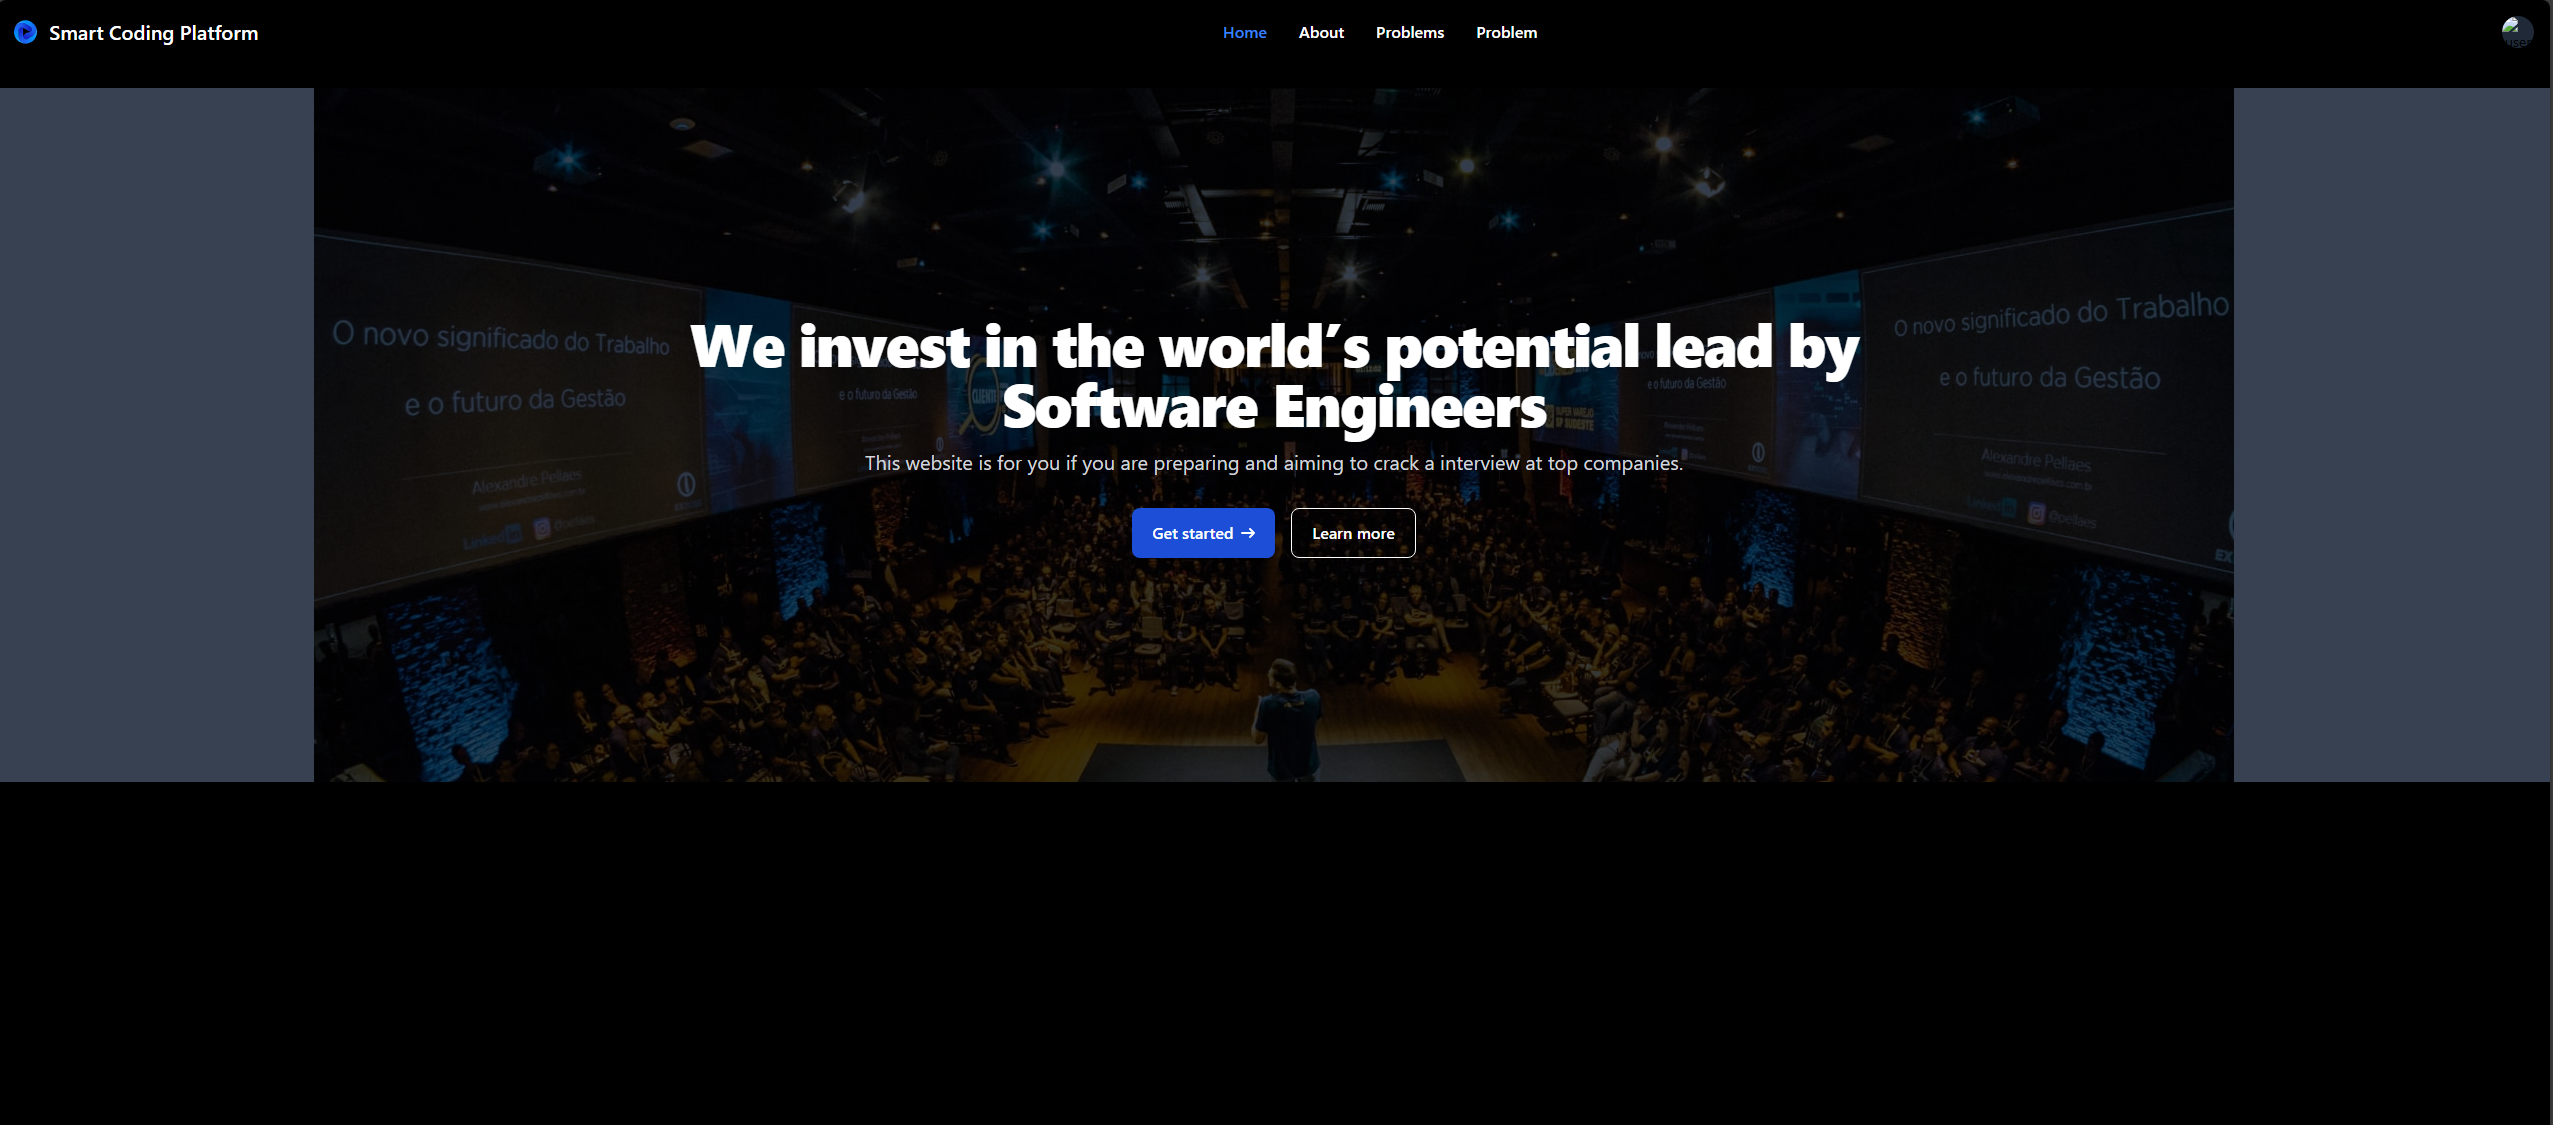
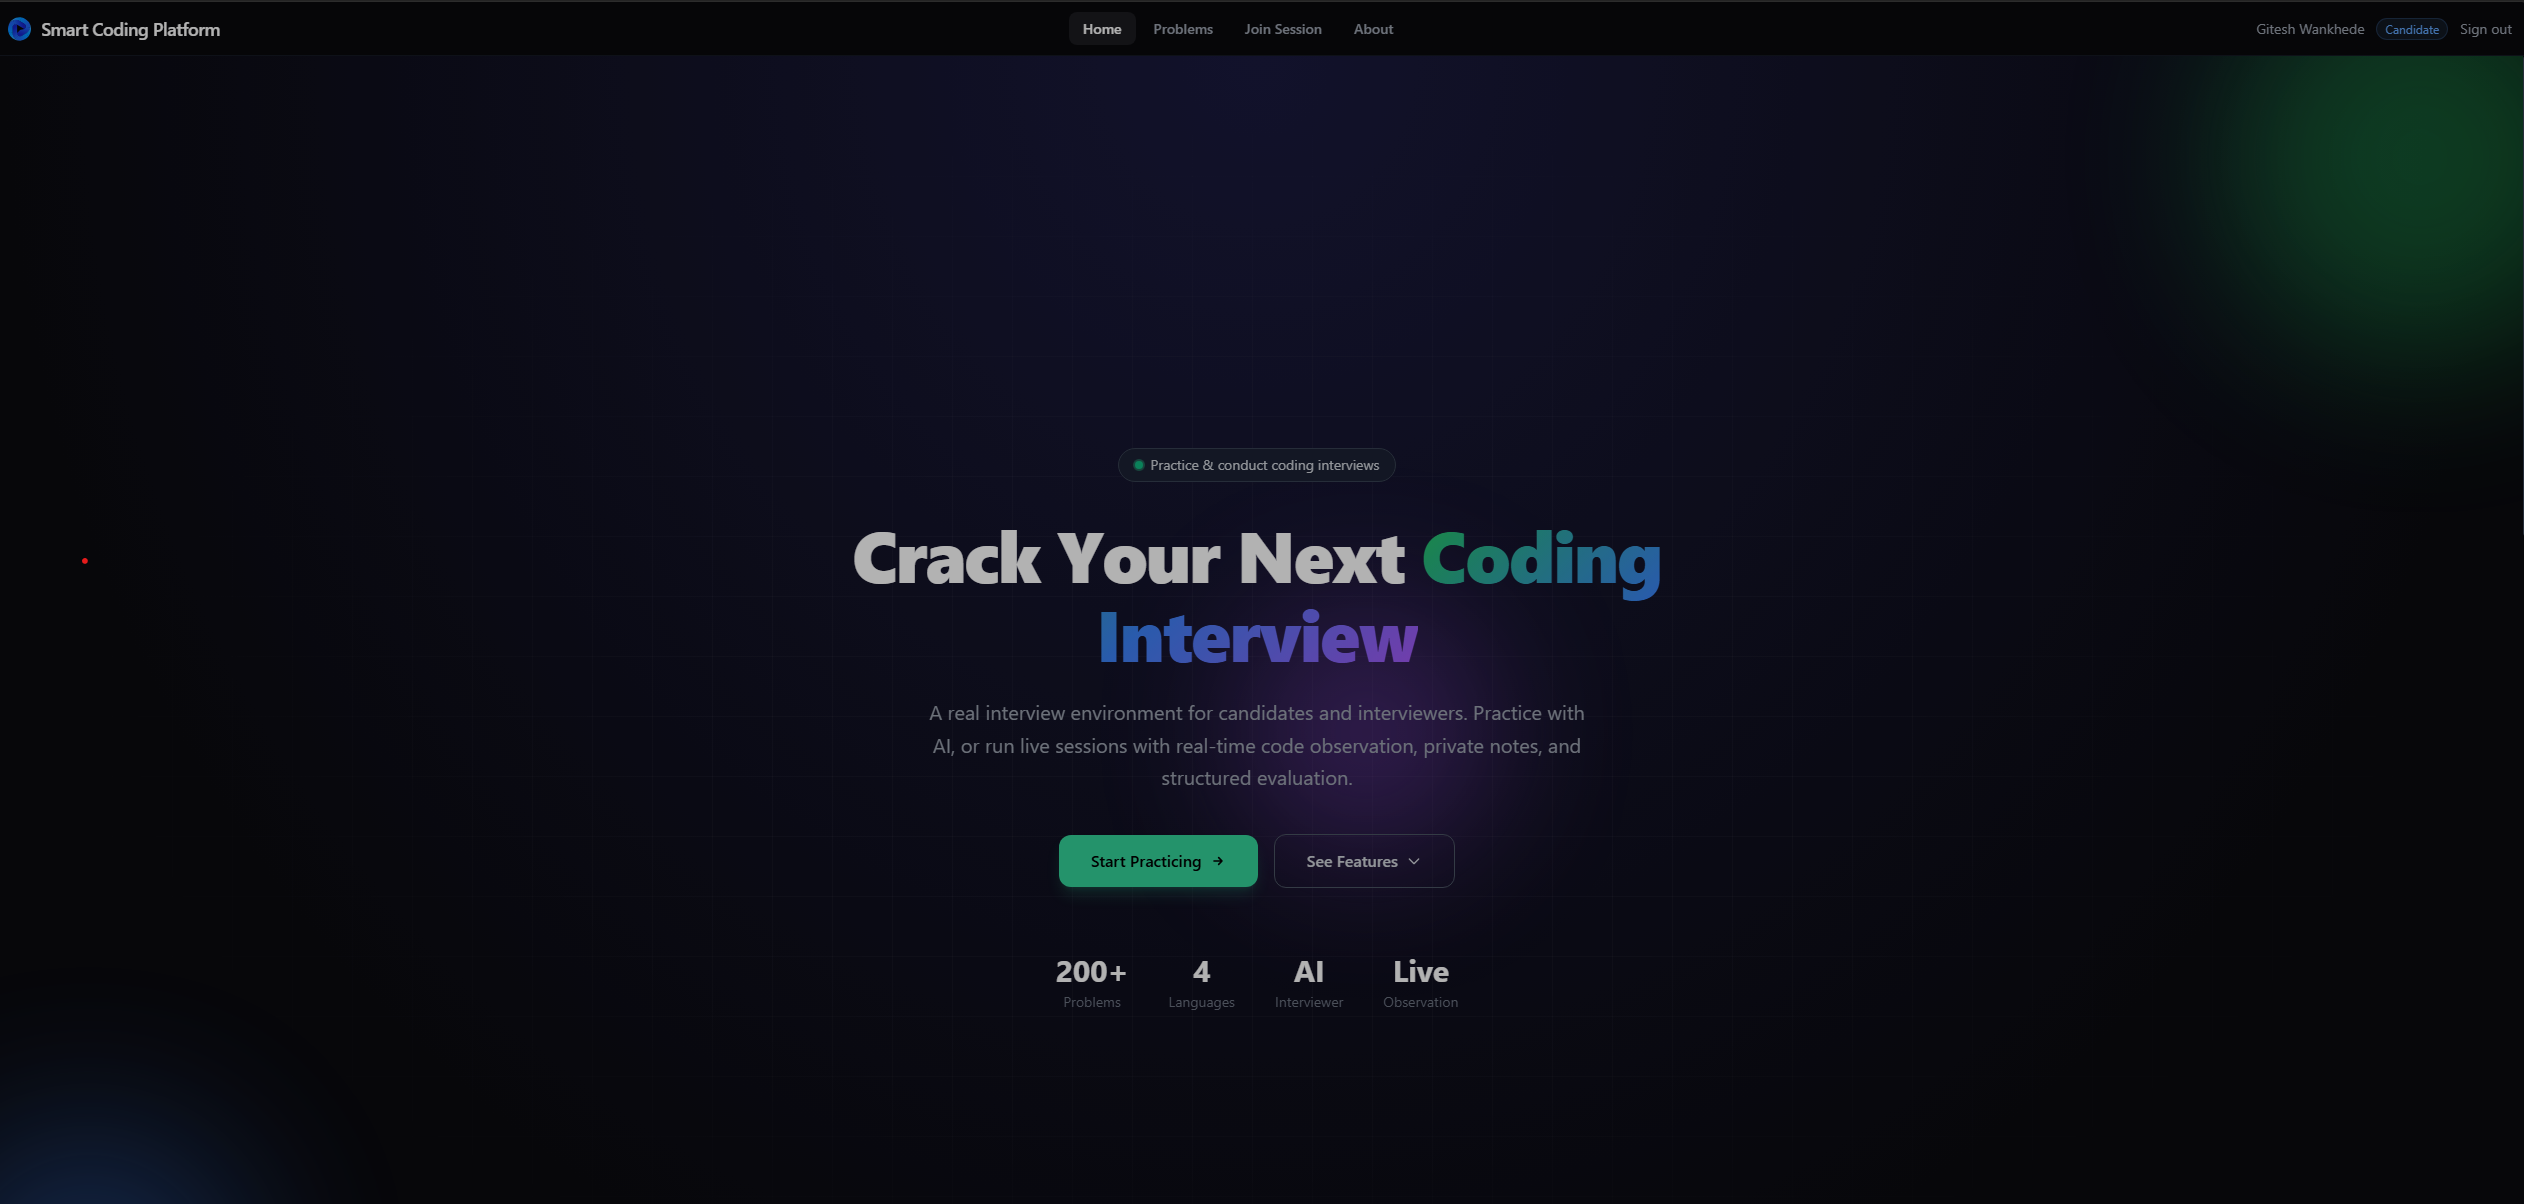
fix: correct project link and re-structure projects

diff --git a/src/assets/user_data.ts b/src/assets/user_data.ts
@@ -160,16 +160,16 @@ export const portfolioData: Portfolio = {
   },
   projects: [
     {
-      name: 'SME Boost',
-      description: 'Developed a high-performance backend in FastAPI using Python for automating marketing campaigns for SMEs. Integrated OpenAI API for content generation (blogs, posts, stories) and Agentic AI for campaign optimization. The system integrates with social media APIs for publishing, and is hosted on Firebase. The frontend was developed using Angular and styled with Tailwind CSS.',
-      imageUrl: 'assets/SME_Boost_full.png',
-      tags: ['Angular', 'Python', 'Firebase', 'pipelines'],
-      category: ["All", "Consumers", "Hackathons", "AI"], // Use a valid category from the Category type
+      name: "Coding Interview Platform",
+      description: "Microservices-based interview simulation platform supporting real-time collaboration. Designed API gateway routing, gRPC-based inter-service communication, PostgreSQL persistence, and semantic search for contextual question retrieval. Built for scalability and service isolation.",
+      imageUrl: "assets/Coding_Platform.png",
+      tags: ['Microservices', 'gRPC', 'API Gateway', 'WebSockets', 'PostgreSQL', 'Semantic Search'],
+      category: ["All", "Educational", "AI"],
       links: {
         isLive: true,
-        liveUrl: 'https://sme-boost-463309.web.app/services',
-        gitUrl: 'https://github.com/gitesh9/SMEBoost',
-      },
+        liveUrl: "https://interviewpracticeplatform.netlify.app/",
+        gitUrl: "https://github.com/gitesh9"
+      }
     },
     {
       name: "Game Stream",
@@ -191,9 +191,21 @@ export const portfolioData: Portfolio = {
       category: ["All", "Entertainment", "Communication"],
       links: {
         isLive: true,
-        liveUrl: "https://dev-discord-clone-five.vercel.app/invite/bac0346a-cb6c-497a-8831-cceb2bc84128",
+        liveUrl: "https://dev-discord-clone.vercel.app/",
         gitUrl: "https://github.com/gitesh9/dev-Discord-clone"
       }
+    },
+    {
+      name: 'SME Boost',
+      description: 'Developed a high-performance backend in FastAPI using Python for automating marketing campaigns for SMEs. Integrated OpenAI API for content generation (blogs, posts, stories) and Agentic AI for campaign optimization. The system integrates with social media APIs for publishing, and is hosted on Firebase. The frontend was developed using Angular and styled with Tailwind CSS.',
+      imageUrl: 'assets/SME_Boost_full.png',
+      tags: ['Angular', 'Python', 'Firebase', 'pipelines'],
+      category: ["All", "Consumers", "Hackathons", "AI"], // Use a valid category from the Category type
+      links: {
+        isLive: true,
+        liveUrl: 'https://sme-boost-463309.web.app/services',
+        gitUrl: 'https://github.com/gitesh9/SMEBoost',
+      },
     },
     // {
     //   name: "WareHouse Management",
@@ -267,18 +279,6 @@ export const portfolioData: Portfolio = {
     //     gitUrl: "https://github.com/gitesh9/bootstrap-main"
     //   }
     // },
-    {
-      name: "Coding Interview Platform",
-      description: "Microservices-based interview simulation platform supporting real-time collaboration. Designed API gateway routing, gRPC-based inter-service communication, PostgreSQL persistence, and semantic search for contextual question retrieval. Built for scalability and service isolation.",
-      imageUrl: "assets/Coding_Platform.png",
-      tags: ['Microservices', 'gRPC', 'API Gateway', 'WebSockets', 'PostgreSQL', 'Semantic Search'],
-      category: ["All", "Educational", "AI"],
-      links: {
-        isLive: true,
-        liveUrl: "https://interviewpracticeplatform.netlify.app/",
-        gitUrl: "https://github.com/gitesh9"
-      }
-    },
   ],
   skills: {
     "Front-end development": [
